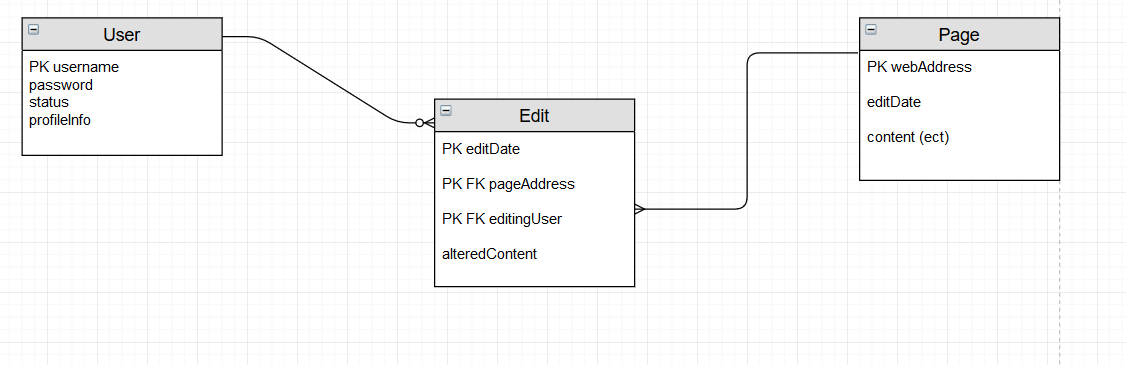
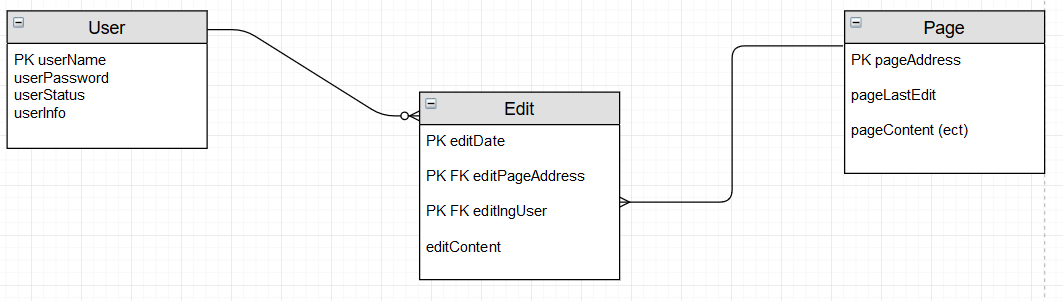
More corrections. Image replaced.

diff --git a/epic/er-diagram.html b/epic/er-diagram.html
@@ -9,23 +9,23 @@
 		<h2>Entities and Attributes</h2>
 		<h3>User</h3>
 		<ul>
-			<li>username (primary key)</li>
-			<li>password</li>
-			<li>status</li>
+			<li>userName (primary key)</li>
+			<li>userPassword</li>
+			<li>userStatus</li>
 			<li>userInfo</li>
 		</ul>
 		<h3>Page</h3>
 		<ul>
-			<li>webAddress (primary key)</li>
-			<li>editDate</li>
-			<li>content (possibly subdivided)</li>
+			<li>pageAddress (primary key)</li>
+			<li>pageLastUpdate</li>
+			<li>pageContent (possibly subdivided)</li>
 		</ul>
 		<h3>Edit</h3>
 		<ul>
 			<li>editDate (primary key)</li>
-			<li>pageAddress (primary and foreign key)</li>
-			<li>editingUser (primary and foreign key)</li>
-			<li>alteredContent</li>
+			<li>editPageAddress (primary and foreign key)</li>
+			<li>editIngUser (primary and foreign key)</li>
+			<li>editContent</li>
 		</ul>
 
 		<img src="ERDiagram.png" alt="1 user to many edits. 1 page to many edits." />
